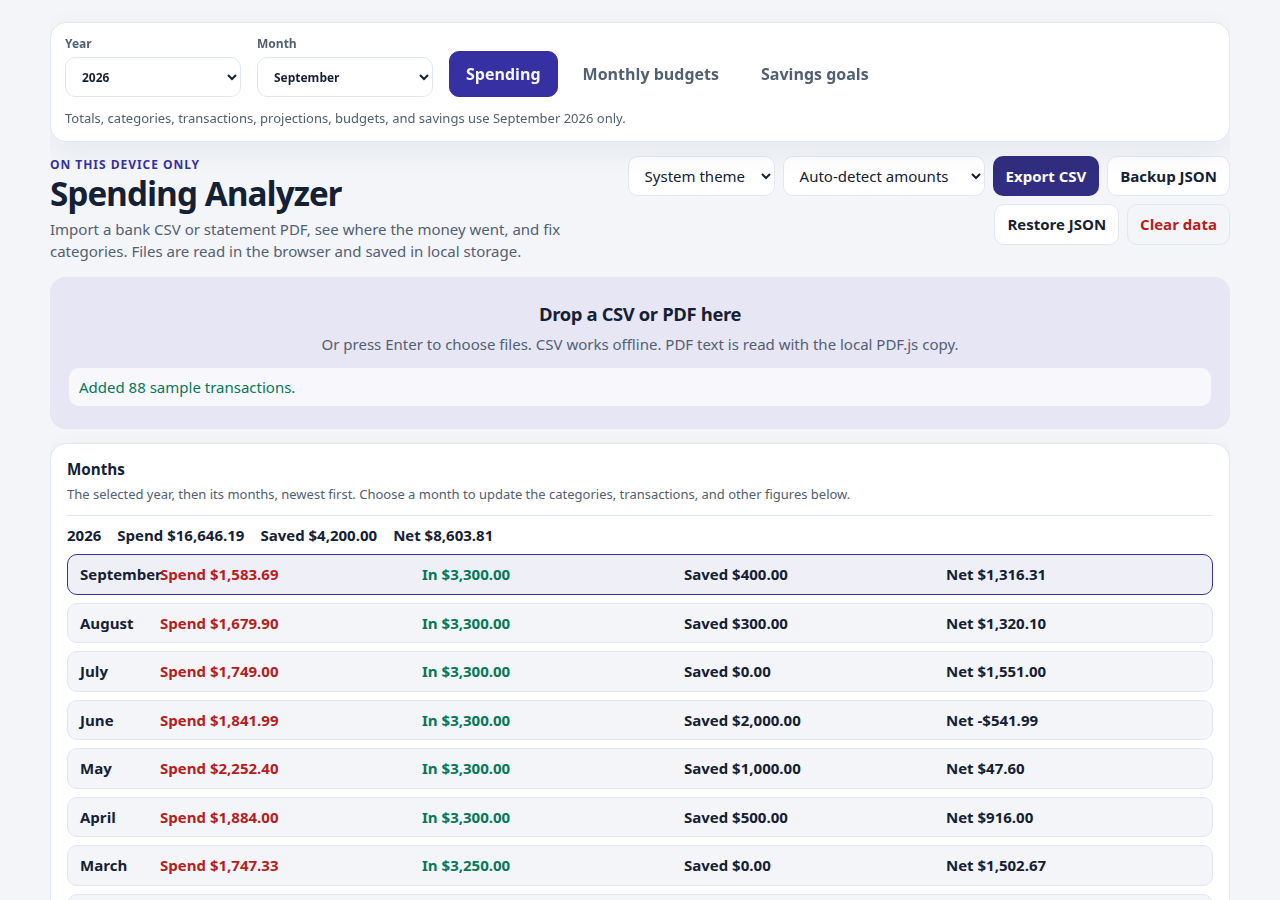
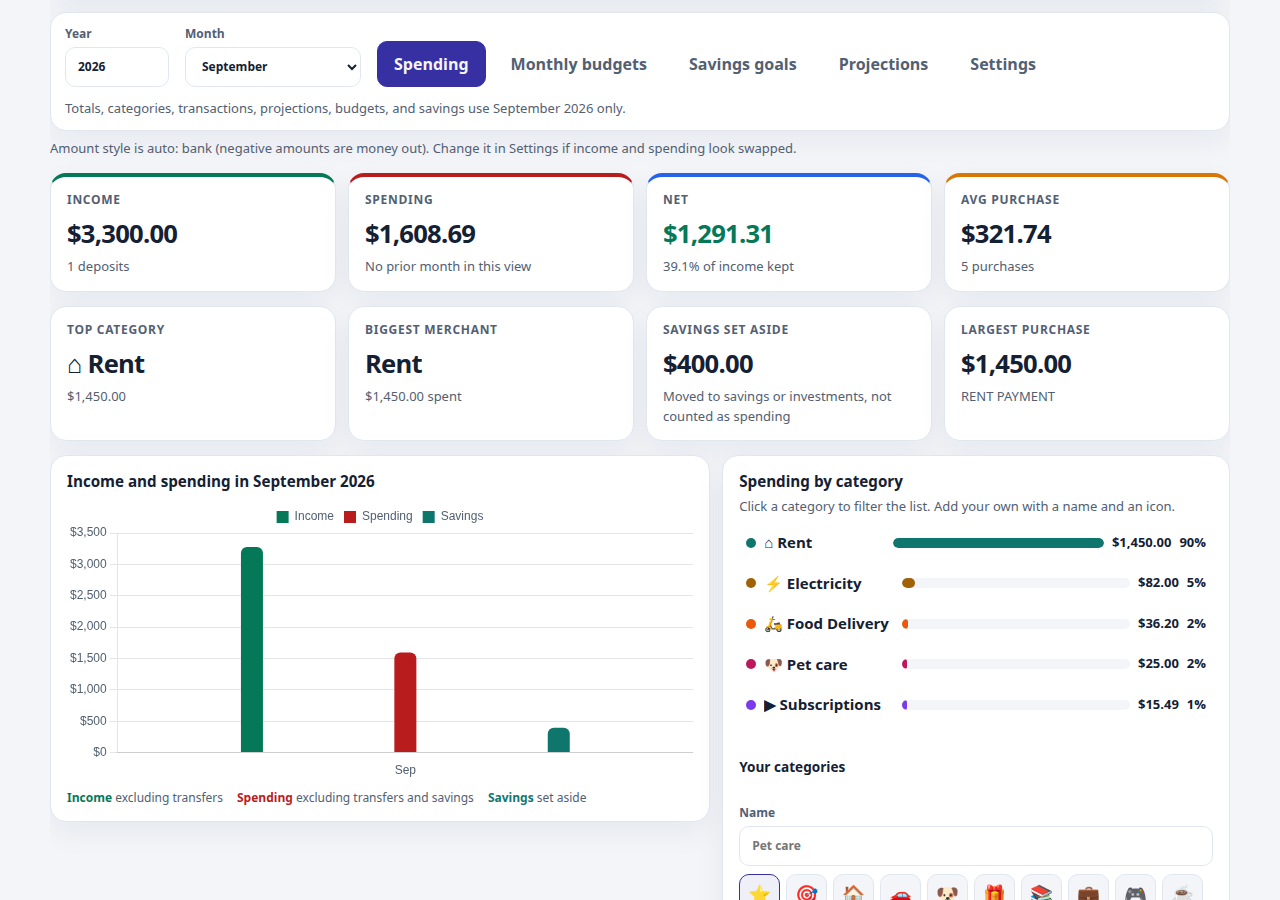
Refresh README screenshots from the current app.
The captures show spending, the months list, a hand-added transaction, a custom category, budgets, savings goals, projections, settings, and the dark theme. The rows are the built-in sample plus a few fake entries.

diff --git a/README.md b/README.md
@@ -43,11 +43,21 @@ A React rewrite and TanStack were looked at and not taken. A cleaner layout was 
 
 ## Screenshots
 
-![Year, month, and section tabs in one bar at the top](docs/screenshots/top-bar.png)
+![Year, month, and section tabs on Spending](docs/screenshots/top-bar.png)
 
-![Months list first under the Spending tab](docs/screenshots/months-first.png)
+![Months list for the selected year](docs/screenshots/months-first.png)
 
-![Savings goals on their own tab](docs/screenshots/goals-tab.png)
+![Add a transaction by hand](docs/screenshots/add-transaction.png)
+
+![A custom category with a built-in icon](docs/screenshots/custom-category.png)
+
+![Monthly budgets](docs/screenshots/budgets-tab.png)
+
+![Savings goals](docs/screenshots/goals-tab.png)
+
+![Projections for the selected month](docs/screenshots/projections.png)
+
+![Settings](docs/screenshots/settings.png)
 
 ![Dark theme](docs/screenshots/dark.png)
 
